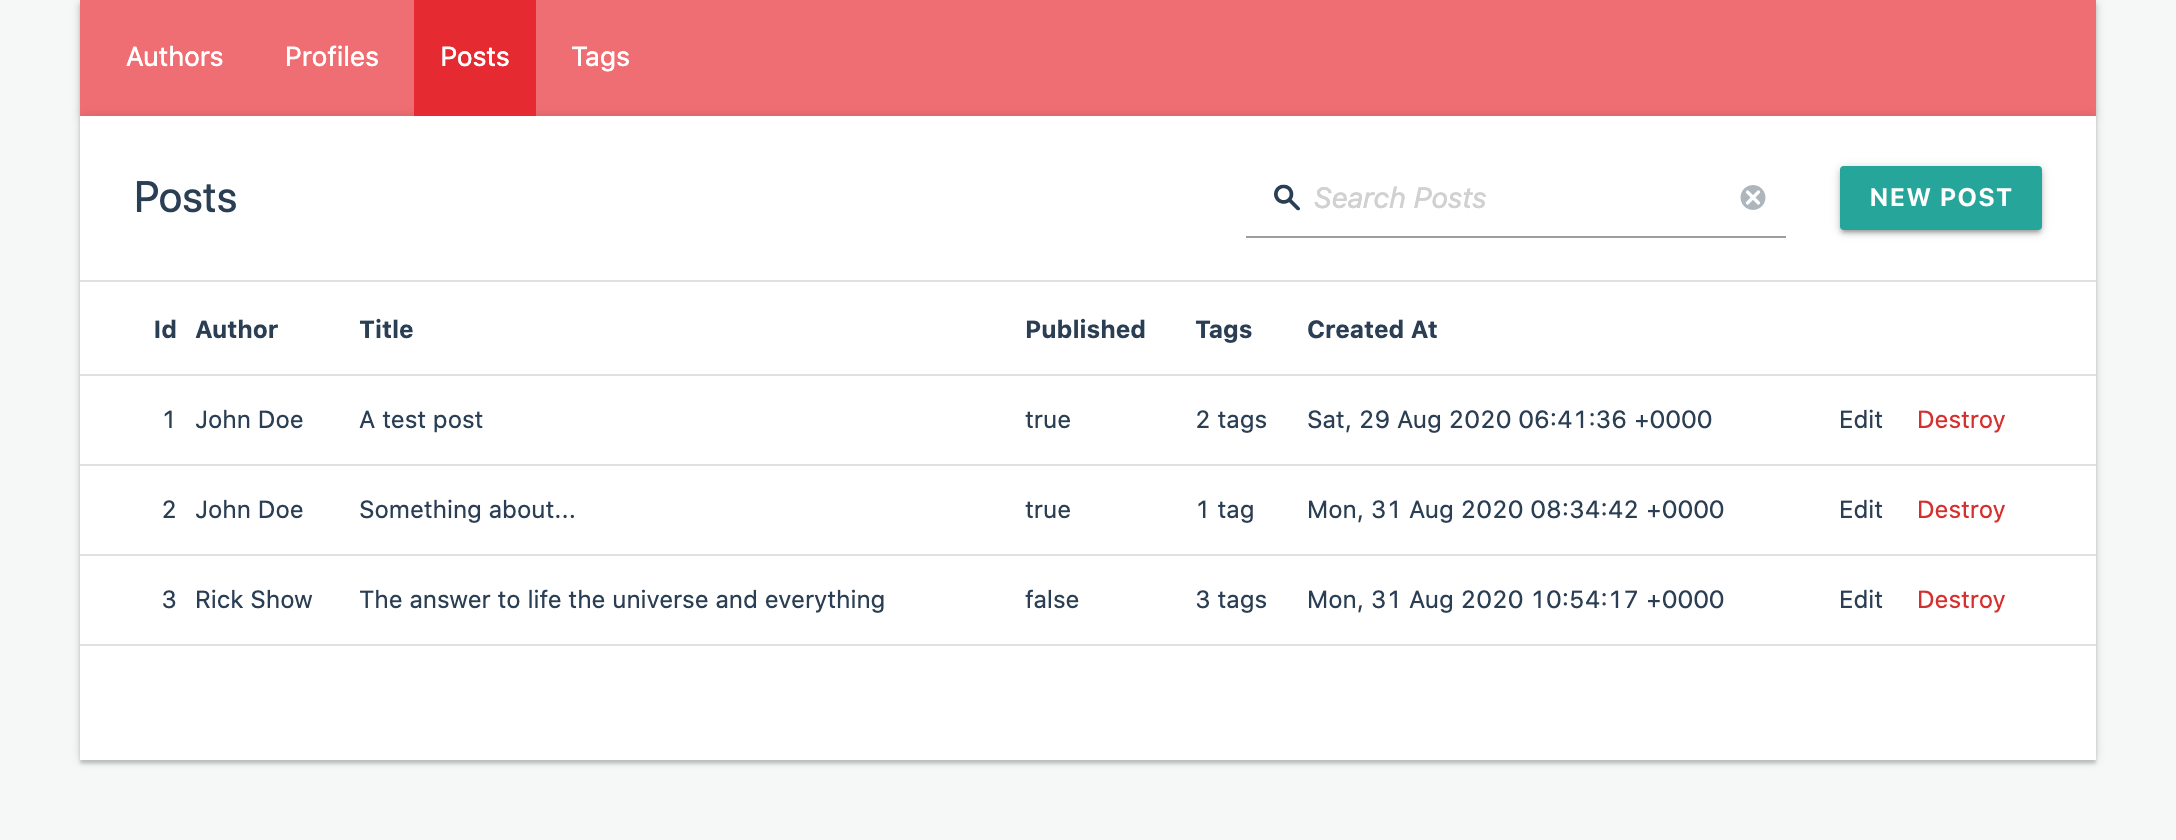
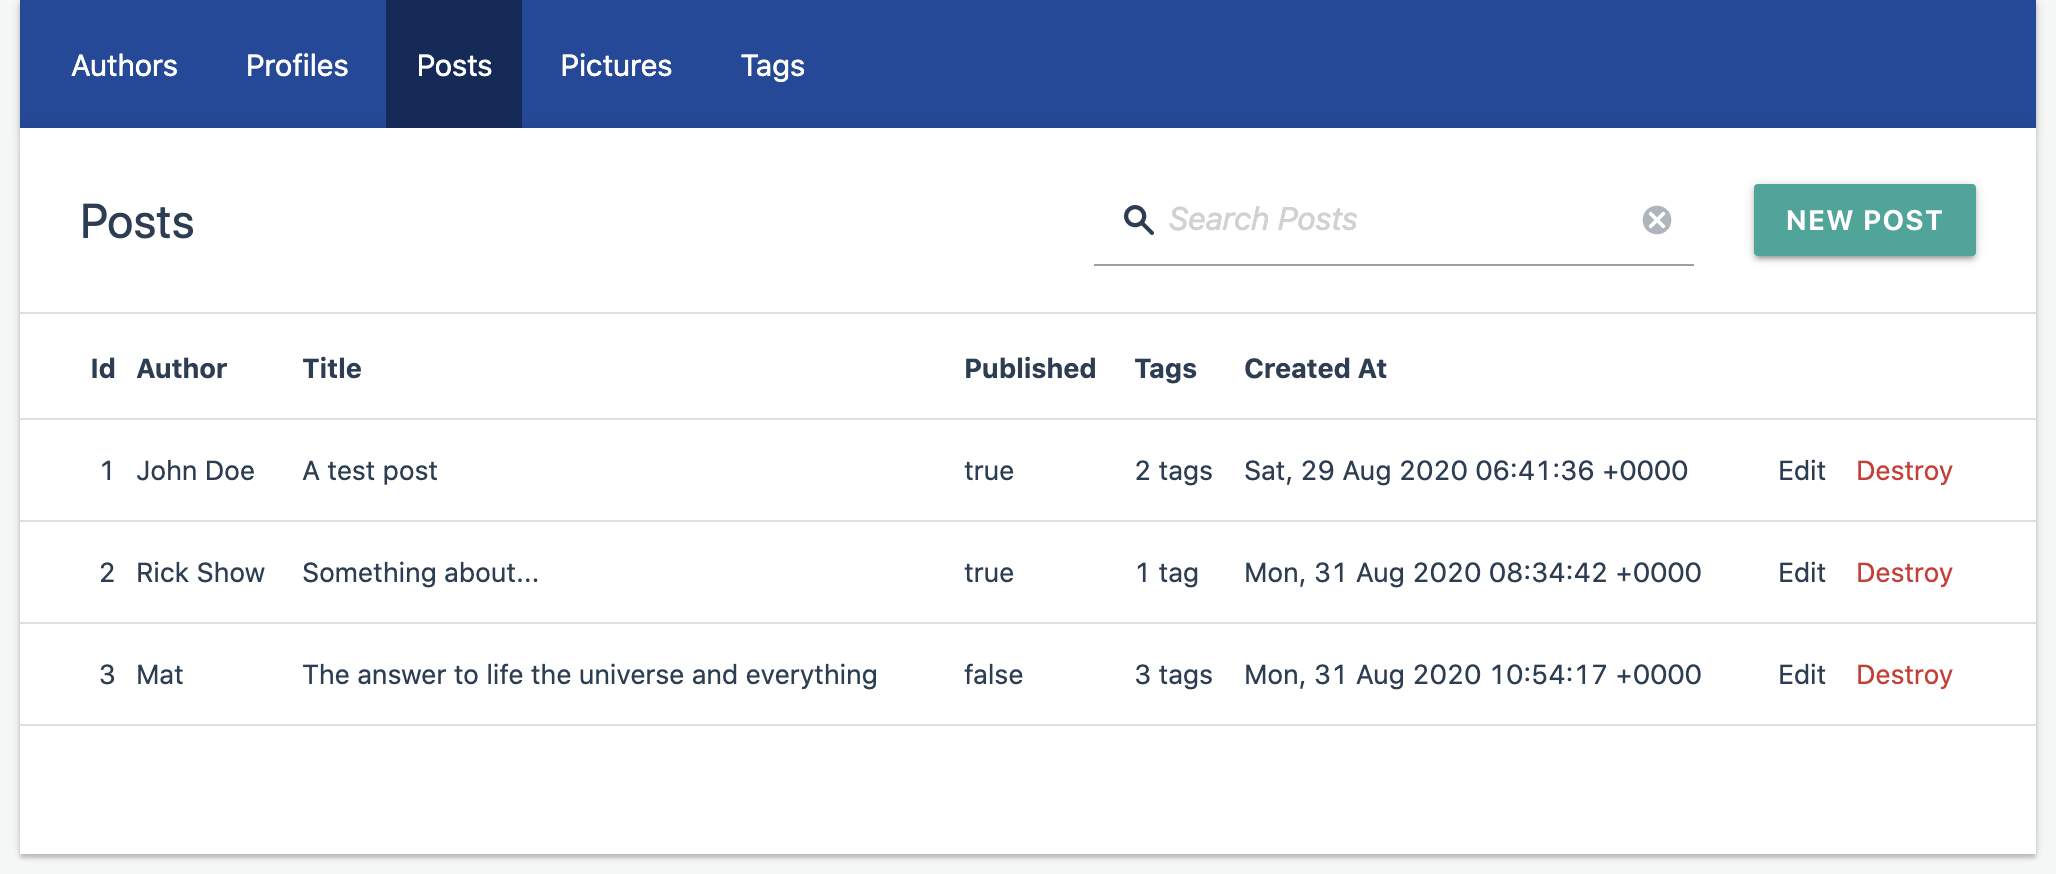
v0.1.4

diff --git a/app/assets/stylesheets/administrate-materialize-theme/theme.scss b/app/assets/stylesheets/administrate-materialize-theme/theme.scss
@@ -1,3 +1,5 @@
+$primary-color: #1d489b !default;
+
 @import 'materialize';
 
 @import 'base';

diff --git a/lib/administrate-materialize-theme/version.rb b/lib/administrate-materialize-theme/version.rb
@@ -1,5 +1,5 @@
 # frozen_string_literal: true
 
 module AdministrateMaterializeTheme
-  VERSION = '0.1.2'
+  VERSION = '0.1.4'
 end
